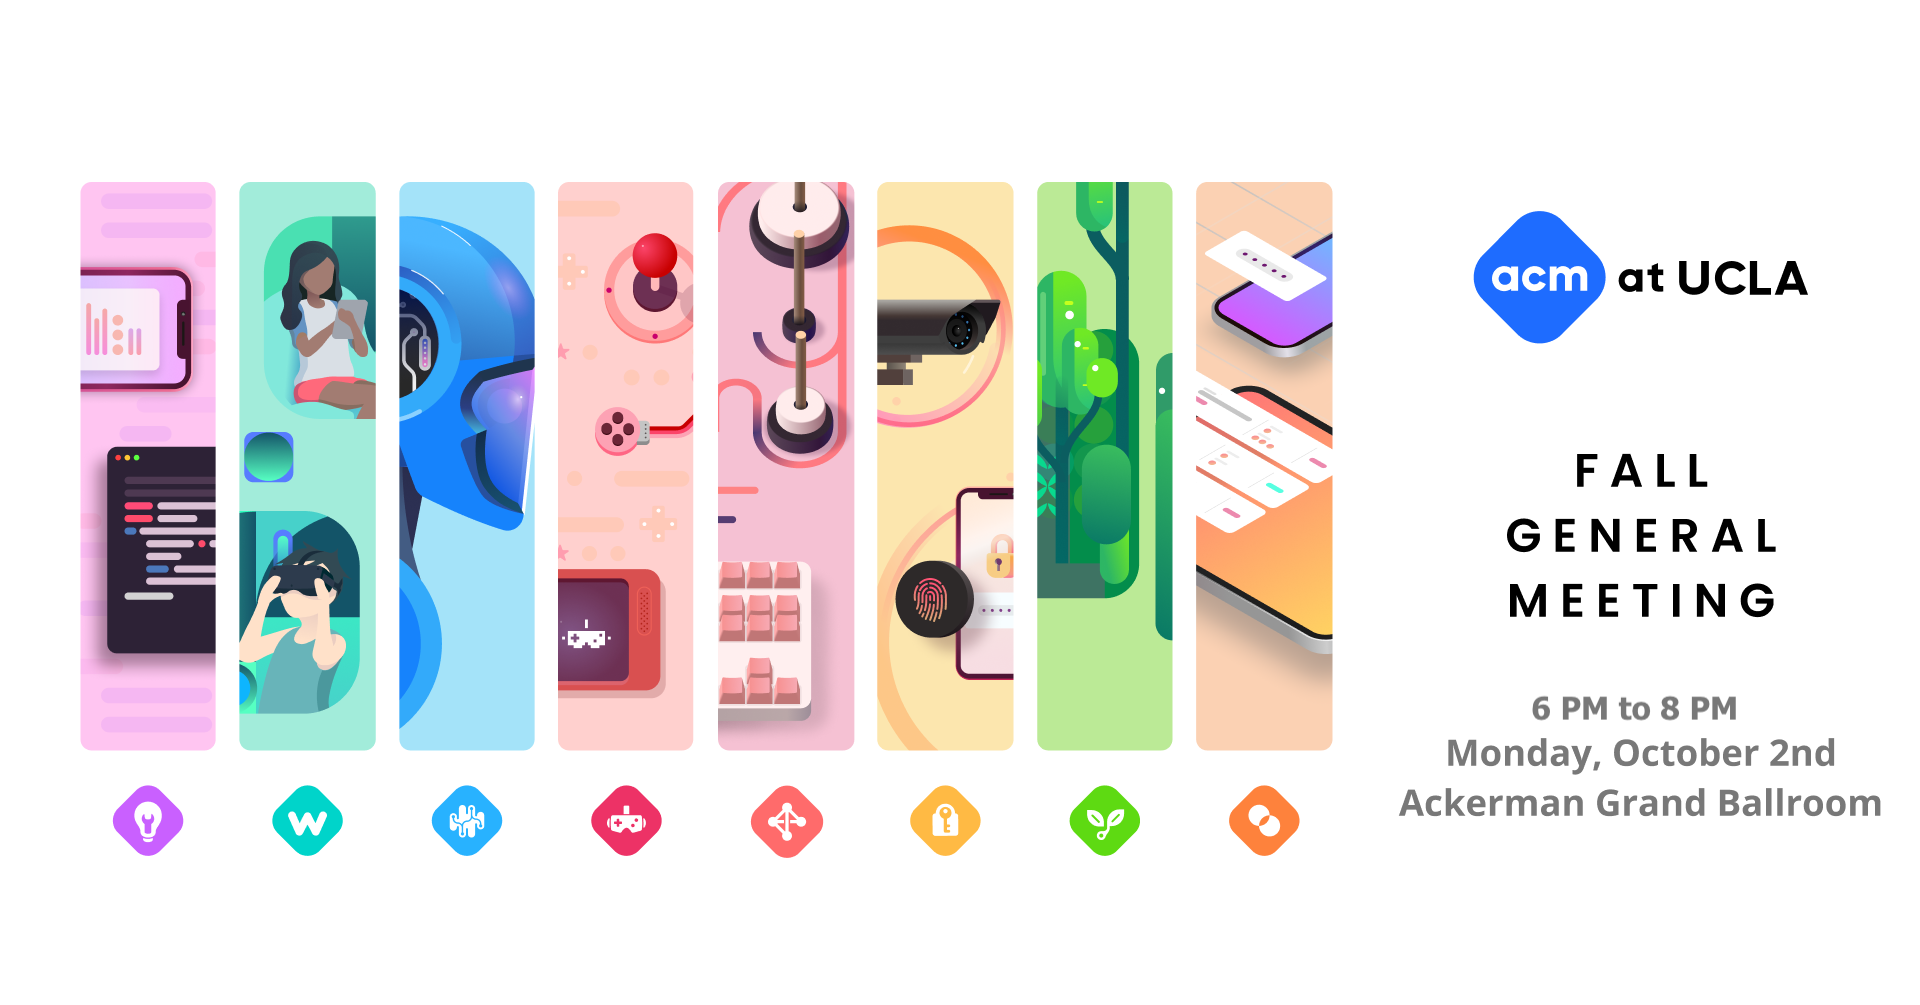
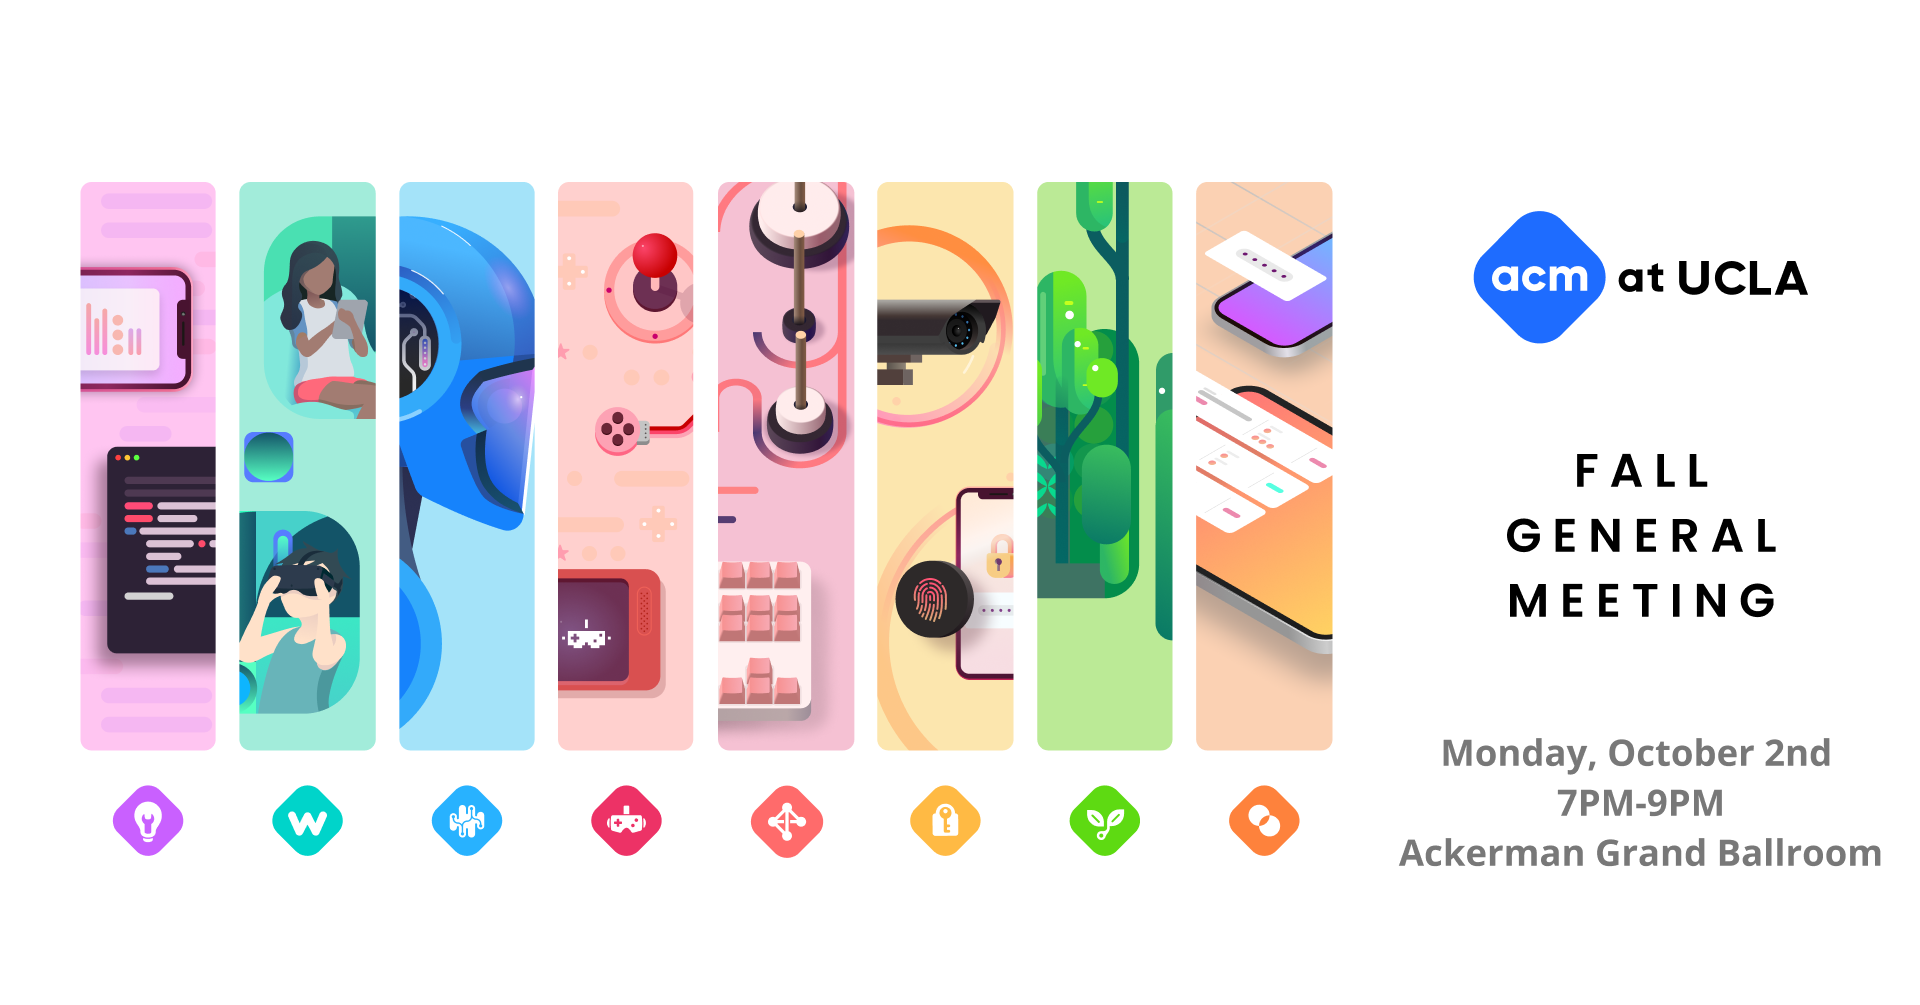
Updates for Fall GM 2023
f23: Added cloud computing, updated time
index: Changed banner to link to Fall GM page
png: image changed to point to fall gm page.

Changed region(s): [[0.7188, 0.6786, 1.0, 0.8637]]

diff --git a/pages/gm/f23.js b/pages/gm/f23.js
@@ -19,7 +19,7 @@ import wLogo from '../../public/images/committees/w_wordmark.svg';
 import fallGMgraphic from '../../public/images/Fall_GM_2023_graphic.png';
 import googleSlideLogo from '../../public/images/slides.png';
 
-const GM_START_TIME = new Date('2023-10-02T18:00-08:00');
+const GM_START_TIME = new Date('2023-10-02T19:00-08:00');
 const RSVP_LINK = 'https://forms.gle/TezHm1kL99vTLbHS9';
 const calculateTimeStrings = ({days, hours, minutes, seconds}) => {
   let dayString = 'Day';
@@ -129,7 +129,7 @@ function F23() {
         <Image
           src = {fallGMgraphic}
           className="gm-graphic"
-          alt="Fall GM 2023 Marketing Graphic. Fall GM will happen on Monday, October 2nd from 6pm to 8pm in Ackerman Grand ballroom"/>
+          alt="Fall GM 2023 Marketing Graphic. Fall GM will happen on Monday, October 2nd from 7pm to 9pm in Ackerman Grand ballroom"/>
       </div>
       <Countdown date={GM_START_TIME} renderer={countdownRenderer}/>
 			<div className="content-container-tight text-center">
@@ -186,10 +186,11 @@ function F23() {
               <h3>ACM Initatives</h3>
               <p className="sub-heading">See exciting new programs that ACM is trying out</p>
             </div>
-            <p className="gm-program-row">ACM Dev Team and Open Source: Arsh</p>
+            <p className="gm-program-row">ACM Dev Team: Arsh</p>
             <p className="gm-program-row">ACM Impact: Naisha and Aarohi</p>
             <p className="gm-program-row">ACM JEDI: Jafarri</p>
-            <p className="gm-program-row">ACM Rust: Sujay</p>
+            <p className="gm-program-row">ACM Rust and Open Source: Sujay</p>
+            <p className="gm-program-row"> ACM Cloud Computing: Daniel and Satyen</p>
           </div>
           <div className="gm-program-section">
             <div className="section-header">

diff --git a/pages/index.js b/pages/index.js
@@ -39,7 +39,7 @@ function Home () {
 				}}
 			/>
 			<div className="home-page text-center">
-			<a href="https://forms.gle/TezHm1kL99vTLbHS9" style={{ textDecoration: 'none' }}>
+			<a href="https://www.uclaacm.com/gm/f23" style={{ textDecoration: 'none' }}>
     <ContentBanner
         title="RSVP now to attend ACM's Fall GM!"
         main
